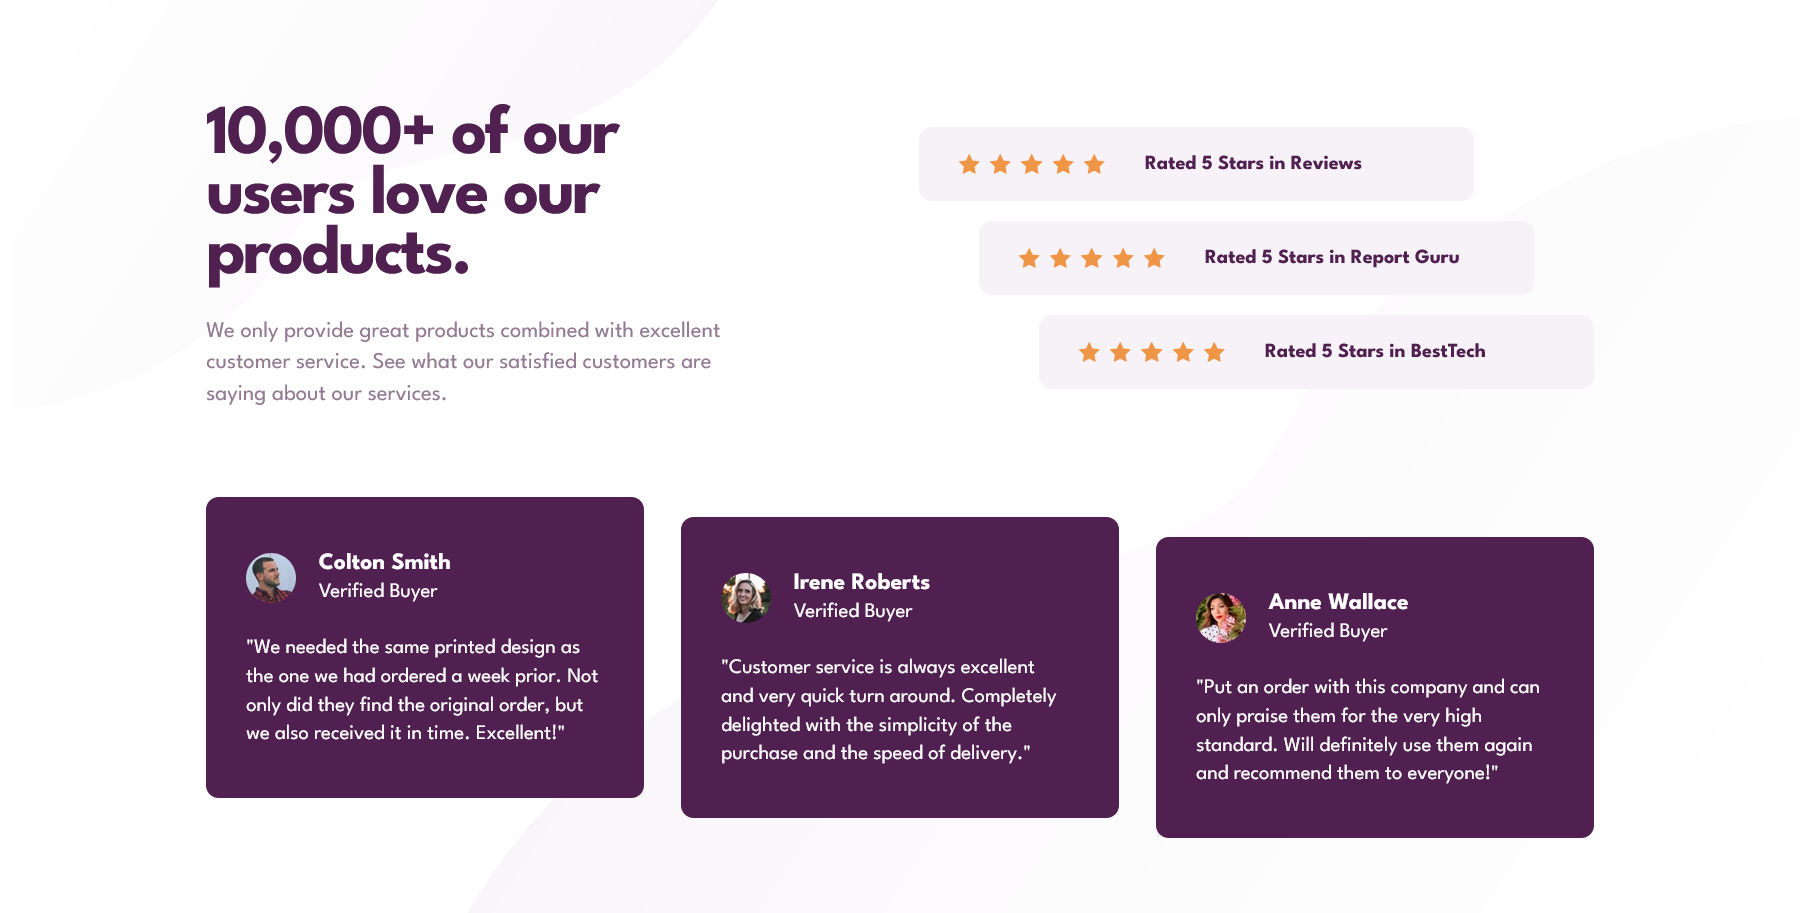
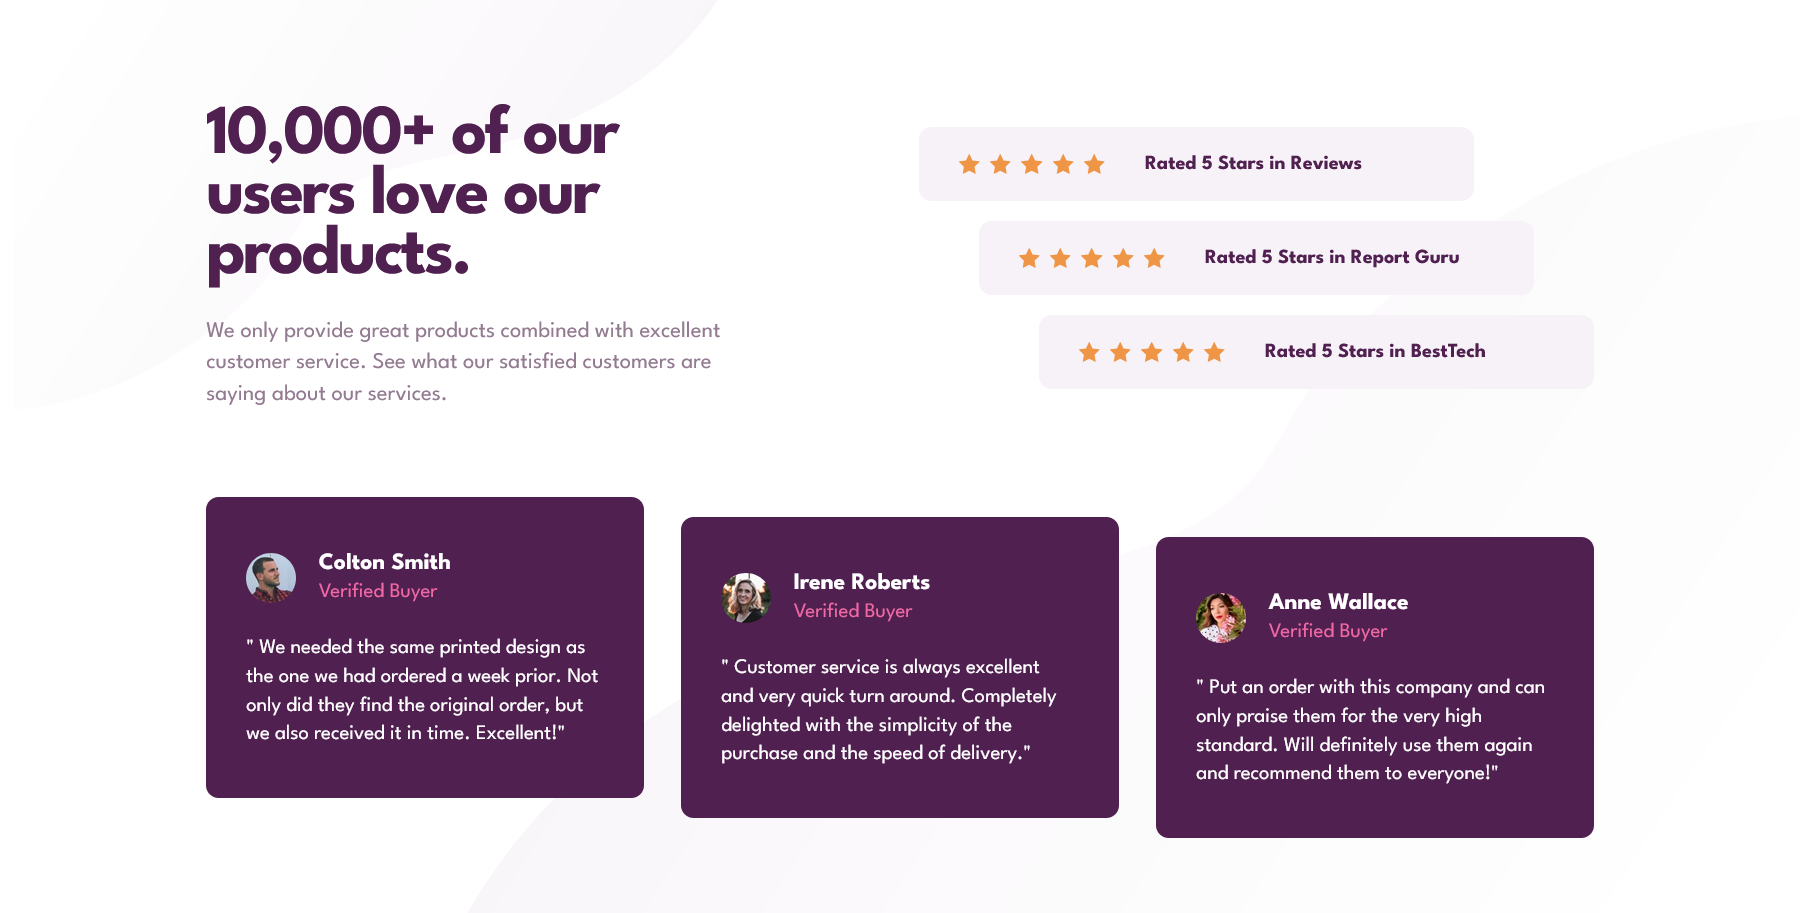
Add files via upload

diff --git a/index.html b/index.html
@@ -66,7 +66,7 @@
               </div>
             </div>
             <p>
-              "We needed the same printed design as the one we had ordered a
+              " We needed the same printed design as the one we had ordered a
               week prior. Not only did they find the original order, but we also
               received it in time. Excellent!"
             </p>
@@ -81,7 +81,7 @@
               </div>
             </div>
             <p>
-              "Customer service is always excellent <span></span>and very quick
+              " Customer service is always excellent <span></span>and very quick
               turn around. Completely delighted with the simplicity of the
               purchase and the speed of delivery."
             </p>
@@ -95,7 +95,7 @@
               </div>
             </div>
             <p>
-              "Put an order with this company and can only praise them for the
+              " Put an order with this company and can only praise them for the
               very high standard. Will definitely use them again and recommend
               them to everyone!"
             </p>

diff --git a/style.css b/style.css
@@ -112,6 +112,9 @@ body {
   border-radius: 50%;
   margin-right: 18px;
 }
+.name p {
+  color: var(--softPink);
+}
 .profile_area p {
   font-size: 1.03125rem;
   line-height: 1.375rem;

diff --git a/README.md b/README.md
@@ -8,8 +8,8 @@ This is a solution to the [Social proof section challenge on Frontend Mentor](ht
 
 ### Links
 
-- Solution URL: [Solution URL here](https://your-solution-url.com)
-- Live Site URL: [Live site URL here](https://your-live-site-url.com)
+- Solution URL: [Solution URL here](https://www.frontendmentor.io/solutions/social-proof-section-q_vc4ng3Qg)
+- Live Site URL: [Live site URL here](https://donjr2.github.io/Frontend-Mentor---Social-proof-section-solution/)
 
 ### Built with
 
